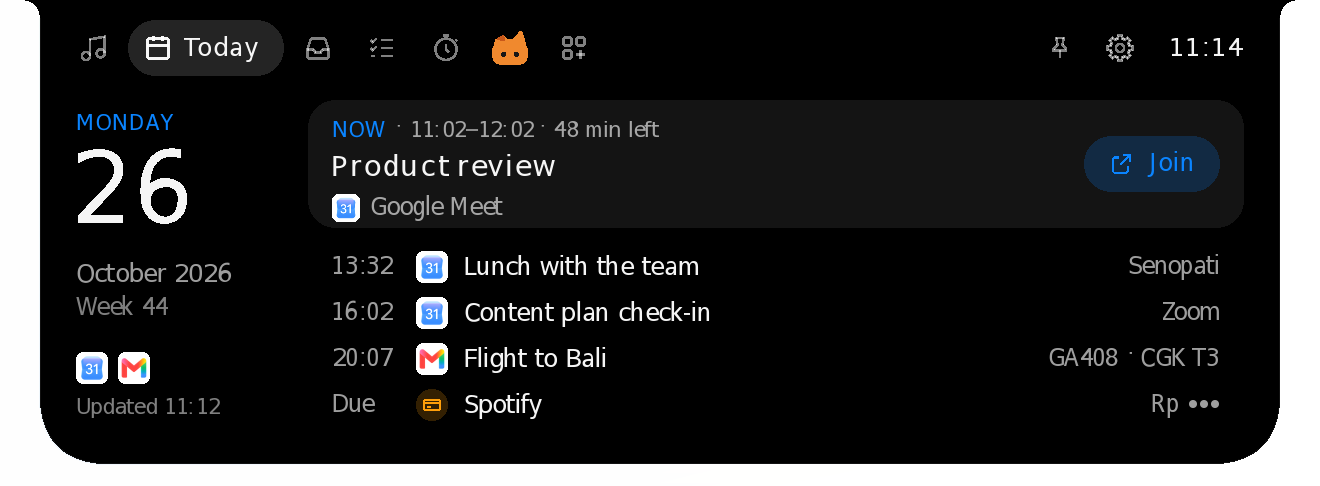
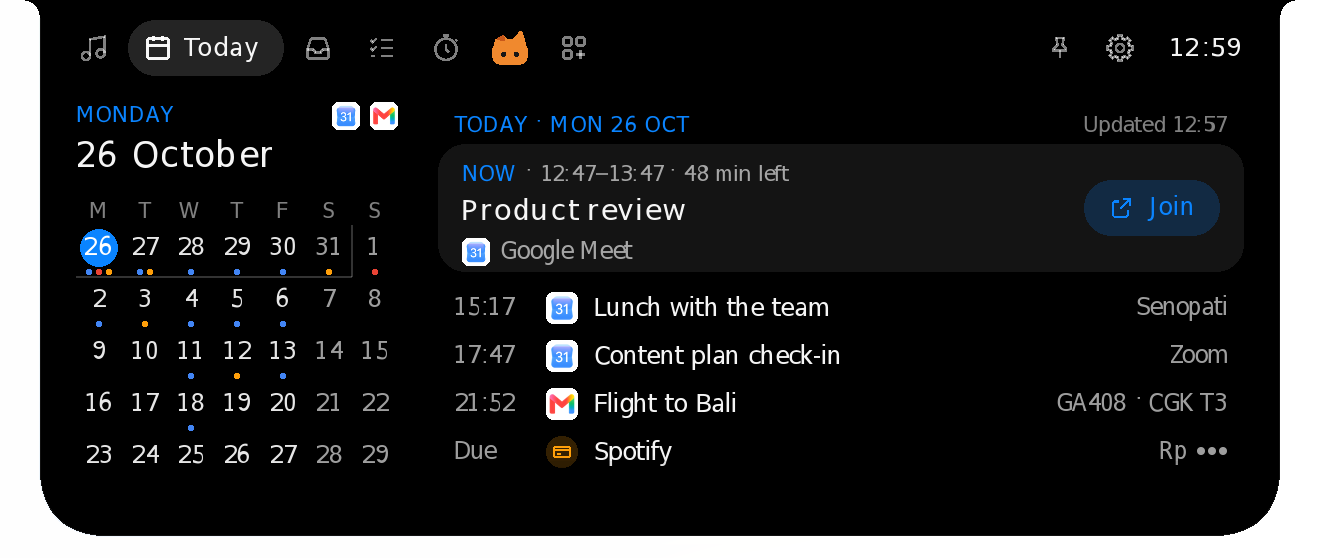
Release 0.2.10 (#130)
Version 0.2.10 in the seven version files, docs/release-notes/v0.2.10.md, and the website: New in 0.2.10 (Today shows the weeks ahead, replacing 0.2.8's Today tile; Prayer times anywhere, with #126's own lines: the hero/feature line, the headings, the Prayer section's New in sentence and the Mac line), the hero line, the fallback version (sizes unchanged), the Today tile's text, "Your weeks in memory.", the Mac captions, and the five Today pictures and the README's pages picture retaken from this release's own build.

Also the self-test's SCENES size, 89: #126 and #128 each added two scenes and each changed 85 to 87, so main (f587649) declared 87 and failed to build on Windows.

diff --git a/site/index.html b/site/index.html
@@ -633,7 +633,7 @@ dialog.more-sheet::backdrop { background: rgba(0, 0, 0, 0.42); -webkit-backdrop-
     <div class="side-sec">
       <p class="side-group">Overview</p>
       <a class="side-item" href="#top" data-k="home start download hero notch island"><i class="ic" style="--c:#1d1d1f"><svg class="ico"><use href="#i-screen"/></svg></i><span>A living notch</span></a>
-      <a class="side-item" href="#new" data-k="new release 0.2.9 latest changes mac youtube spotify browser now playing pill notch oyen oyenza tab system health add-ons clipboard history gone today your day google calendar gmail meeting join flights bills clipboard add-on touch screen tablet taps tap through notch eyes hide and seek macbook camera update available new version install now next start updater mac installer dmg window steps health oyenza sign in mac headphones full screen power island stays maximized windows sing along romaji lyrics mac prayer script reader teleprompter games power"><i class="ic" style="--c:#bf4800"><svg class="ico"><use href="#i-spark"/></svg></i><span>New in 0.2.9</span></a>
+      <a class="side-item" href="#new" data-k="new release 0.2.10 latest changes today five weeks week ahead schedule month grid dots allow turn on prayer times anywhere world city mac youtube spotify browser now playing pill notch oyen oyenza tab system health add-ons clipboard history gone today your day google calendar gmail meeting join flights bills clipboard add-on touch screen tablet taps tap through notch eyes hide and seek macbook camera update available new version install now next start updater mac installer dmg window steps health oyenza sign in mac headphones full screen power island stays maximized windows sing along romaji lyrics mac prayer script reader teleprompter games power"><i class="ic" style="--c:#bf4800"><svg class="ico"><use href="#i-spark"/></svg></i><span>New in 0.2.10</span></a>
       <a class="side-item" href="#highlights" data-k="best gallery overview"><i class="ic" style="--c:#ff9f0a"><svg class="ico"><use href="#i-spark"/></svg></i><span>Highlights</span></a>
       <a class="side-item" href="#features" data-k="rest idle music timer volume charging headphones bluetooth money clock eyes prayer countdown"><i class="ic" style="--c:#636366"><svg class="ico"><use href="#i-island"/></svg></i><span>While it rests</span></a>
     </div>
@@ -645,7 +645,7 @@ dialog.more-sheet::backdrop { background: rgba(0, 0, 0, 0.42); -webkit-backdrop-
       <a class="side-item" href="#health" data-k="steps health apple health connect add-on"><i class="ic" style="--c:#34c759"><svg class="ico"><use href="#i-steps"/></svg></i><span>Health</span></a>
       <a class="side-item" href="#shelf" data-k="files shelf drag drop"><i class="ic" style="--c:#007aff"><svg class="ico"><use href="#i-tray"/></svg></i><span>Shelf</span></a>
       <a class="side-item" href="#tasks" data-k="todo to-do tasks list"><i class="ic" style="--c:#ff9500"><svg class="ico"><use href="#i-list"/></svg></i><span>Tasks</span></a>
-      <a class="side-item" href="#today" data-k="today date calendar google calendar gmail meeting join flights bills your day sign in"><i class="ic" style="--c:#ff3b30"><svg class="ico"><use href="#i-cal"/></svg></i><span>Today</span></a>
+      <a class="side-item" href="#today" data-k="today date calendar google calendar gmail meeting join flights bills your day five weeks week ahead schedule month grid sign in allow turn on"><i class="ic" style="--c:#ff3b30"><svg class="ico"><use href="#i-cal"/></svg></i><span>Today</span></a>
       <a class="side-item" href="#system" data-k="system cpu gpu memory ram disk network battery processes stats power psu watts add-on"><i class="ic" style="--c:#636366"><svg class="ico"><use href="#i-gauge"/></svg></i><span>System</span></a>
       <a class="side-item" href="#settings" data-k="settings gear account preferences"><i class="ic" style="--c:#8e8e93"><svg class="ico"><use href="#i-gear"/></svg></i><span>Settings</span></a>
     </div>
@@ -687,7 +687,7 @@ dialog.more-sheet::backdrop { background: rgba(0, 0, 0, 0.42); -webkit-backdrop-
     </div>
     <a class="side-me" data-release="notes" href="https://github.com/lucacadalora/oyenza-studio/releases/latest">
       <img src="brand/oyen-poni-logo.svg" alt="" width="30" height="30">
-      <span><b>Version <span data-release-copy="version">0.2.9</span></b><small>What's new on GitHub</small></span>
+      <span><b>Version <span data-release-copy="version">0.2.10</span></b><small>What's new on GitHub</small></span>
     </a>
   </div>
 </aside>
@@ -728,9 +728,9 @@ dialog.more-sheet::backdrop { background: rgba(0, 0, 0, 0.42); -webkit-backdrop-
           <div class="hero-copy">
             <h1 class="t-hero-eyebrow">Oyenza Studio</h1>
             <p class="t-hero">A living notch.</p>
-            <a class="t-avail" href="#new">New in 0.2.9: YouTube and Spotify from your browser on the Mac, and Oyen is the Oyenza tab.</a>
+            <a class="t-avail" href="#new">New in 0.2.10: Today shows the next five weeks, and Prayer times work anywhere in the world.</a>
             <div class="buybox">
-              <div><b>Free for Windows and Mac</b><span class="fine">Open source · Windows <span data-release="size">2.6&nbsp;MB</span> · Mac <span data-release="mac-size">4.3&nbsp;MB</span> · <a class="notes" data-release="notes" href="https://github.com/lucacadalora/oyenza-studio/releases/latest">What's new in <span data-release="version">0.2.9</span></a></span></div>
+              <div><b>Free for Windows and Mac</b><span class="fine">Open source · Windows <span data-release="size">2.6&nbsp;MB</span> · Mac <span data-release="mac-size">4.3&nbsp;MB</span> · <a class="notes" data-release="notes" href="https://github.com/lucacadalora/oyenza-studio/releases/latest">What's new in <span data-release="version">0.2.10</span></a></span></div>
               <a class="btn dl-primary" href="https://github.com/lucacadalora/oyenza-studio/releases/latest/download/Oyenza-Studio-Setup.exe">Download</a>
             </div>
             <a class="link hero-other dl-other" data-release="mac-link" href="https://github.com/lucacadalora/oyenza-studio/releases/latest/download/Oyenza-Studio-Mac.dmg">Download for Mac</a>
@@ -749,13 +749,14 @@ dialog.more-sheet::backdrop { background: rgba(0, 0, 0, 0.42); -webkit-backdrop-
   </section>
 
   <section class="sec band" id="new" aria-labelledby="new-title">
-    <div class="content head rv"><h2 class="t-l" id="new-title">New in 0.2.9.</h2></div>
+    <div class="content head rv"><h2 class="t-l" id="new-title">New in 0.2.10.</h2></div>
     <div class="content news">
+      <a class="news-tile rv" href="#today"><p class="t-card">Today shows the weeks ahead</p><p class="t-tile">Five weeks at a glance beside your schedule: the meeting on now with Join, then every day that has something. Click a date to jump there.</p></a>
+      <a class="news-tile rv" href="#prayer"><p class="t-card">Prayer times anywhere</p><p class="t-tile">Type any city in the world, or let your location find it.</p></a>
       <a class="news-tile rv" href="#mac"><p class="t-card">YouTube and Spotify on the Mac</p><p class="t-tile">Music from your browser (YouTube, YouTube Music, Spotify on the web) and every other player on your Mac shows on the island, with lyrics.</p></a>
       <a class="news-tile rv" href="#mac"><p class="t-card">Pill on a MacBook</p><p class="t-tile">At rest, Pill goes back into the notch. Music, the timer and pop-ups float as the pill below it.</p></a>
       <a class="news-tile rv" href="#oyenza"><p class="t-card">Oyen is the Oyenza tab</p><p class="t-tile">He waves as the island opens, follows your pointer over the tabs and hops when you click him. Today now sits beside Music.</p></a>
       <a class="news-tile rv" href="#addons"><p class="t-card">System and Health are add-ons</p><p class="t-tile">Both stay off until you switch them on, so the island does less at rest. Clipboard history is gone.</p></a>
-      <a class="news-tile rv" href="#today"><p class="t-card">Your day on Today</p><p class="t-tile">Sign in with Oyenza and switch on Google Calendar or Gmail: the meeting on now with Join, then the rest of your day.</p></a>
       <a class="news-tile rv" href="#on-top"><p class="t-card">Taps go through</p><p class="t-tile">On a touch screen, taps beside and below the island reach the app under it, as mouse clicks always did.</p></a>
       <a class="news-tile rv" href="#mac"><p class="t-card">Hide and seek</p><p class="t-tile">On a MacBook with a notch, the eyes peek out beside the camera, follow your pointer and duck behind it to cross.</p></a>
       <a class="news-tile rv" href="#on-top"><p class="t-card">The island stays</p><p class="t-tile">Over a maximized window it stays on screen again, in every theme. Want the top edge clear? Idle look › Hidden until hover.</p></a>
@@ -818,7 +819,7 @@ dialog.more-sheet::backdrop { background: rgba(0, 0, 0, 0.42); -webkit-backdrop-
         <div class="gsky pad"><img class="whole" src="brand/readme/themes.webp" alt="The Music page in each look: Classic, Oyen, Glass light, Glass dark, Pill, and Pill while a lyric line plays" width="880" height="548" loading="lazy"></div>
       </a>
       <a class="gcard" href="#prayer">
-        <p>Prayer times for your kab/kota, as Kemenag RI publishes them.</p>
+        <p>Prayer times for your kab/kota, or any city in the world.</p>
         <div class="gsky"><div class="sky-fill"></div>
           <img class="look-classic" src="assets/shots/classic/page-prayer.webp" alt="The Prayer page: Ashar at 14:52, counting down from 00:08:00, Kota Jakarta, today's five prayers on an arc with Ashar lit, Imsak, Terbit and the qibla, and Adzan, Tone or Silent" width="660" height="225" loading="lazy">
           <img class="look-oyen" src="assets/shots/oyen/page-prayer.webp" alt="The Prayer page in the Oyen theme" width="660" height="225" loading="lazy">
@@ -950,10 +951,10 @@ dialog.more-sheet::backdrop { background: rgba(0, 0, 0, 0.42); -webkit-backdrop-
     </div>
     <div class="content bento">
       <article class="tile rv wide" id="today">
-        <div class="tile-text"><div><h4 class="t-card">Today</h4><p class="t-tile">Your day from Google Calendar and Gmail: the meeting on now with Join, then events, flights and bills due today.</p></div><img class="tile-pose" src="brand/art/poses/oyen-today.webp" alt="" width="480" height="499" loading="lazy"></div>
+        <div class="tile-text"><div><h4 class="t-card">Today</h4><p class="t-tile">Five weeks from Google Calendar and Gmail: a dot under each day with something on, and your schedule from now, with Join for the meeting on now.</p></div><img class="tile-pose" src="brand/art/poses/oyen-today.webp" alt="" width="480" height="499" loading="lazy"></div>
         <div class="tile-shot"><div class="sky-fill"></div><div class="isl">
-          <img class="look-classic" src="assets/shots/classic/page-today-day.webp" alt="The Today page: the date beside the meeting on now with Join, then the rest of the day, a flight and a bill due today" width="660" height="243" loading="lazy">
-          <img class="look-oyen" src="assets/shots/oyen/page-today-day.webp" alt="The Today page in the Oyen theme: the meeting on now with Join, then the rest of the day" width="660" height="243" loading="lazy">
+          <img class="look-classic" src="assets/shots/classic/page-today-day.webp" alt="The Today page: the date and five weeks of days, a dot under each one with something on, beside the meeting on now with Join, then lunch, a call, a flight and a bill due" width="660" height="279" loading="lazy">
+          <img class="look-oyen" src="assets/shots/oyen/page-today-day.webp" alt="The Today page in the Oyen theme: five weeks of days beside the meeting on now with Join, then the rest of the day" width="660" height="279" loading="lazy">
         </div></div>
       </article>
       <article class="tile rv" id="shelf">
@@ -1085,7 +1086,7 @@ dialog.more-sheet::backdrop { background: rgba(0, 0, 0, 0.42); -webkit-backdrop-
   <section class="sec" id="prayer" aria-labelledby="prayer-title">
     <div class="content head rv">
       <p class="t-label">Prayer times</p>
-      <h3 class="t-l" id="prayer-title">Prayer times, for your kab/kota.</h3>
+      <h3 class="t-l" id="prayer-title">Prayer times, for your city.</h3>
       <p class="t-intro">As <b>Kemenag RI</b> publishes them, with a live countdown, today on one arc, the qibla and the adzan. New in 0.2.3: on the Mac too.</p>
       <button class="more" type="button" data-more="m-prayer">More about prayer times<i><svg class="ico"><use href="#i-plus"/></svg></i></button>
     </div>
@@ -1238,7 +1239,7 @@ dialog.more-sheet::backdrop { background: rgba(0, 0, 0, 0.42); -webkit-backdrop-
       </div>
       <div class="panel rv-zoom gap-t" data-scene="par">
         <div class="sky-layer"></div>
-        <div class="isl"><img src="assets/shots/oyen/page-today-day.webp" alt="The Today page in the Oyen theme: a cream island, brown text, today's date in Oyen's orange, the meeting on now with Join, and Oyen peeking up beside the pin" width="660" height="243" loading="lazy"></div>
+        <div class="isl"><img src="assets/shots/oyen/page-today-day.webp" alt="The Today page in the Oyen theme: a cream island, brown text, today's date in Oyen's orange among five weeks of days, the meeting on now with Join, and Oyen peeking up beside the pin" width="660" height="279" loading="lazy"></div>
         <img class="pose" src="brand/art/oyen-poni-asleep.webp" alt="Oyen asleep on the island while a song plays" width="900" height="654" loading="lazy" style="max-width:46%">
       </div>
     </div>
@@ -1316,7 +1317,7 @@ dialog.more-sheet::backdrop { background: rgba(0, 0, 0, 0.42); -webkit-backdrop-
         </div>
         <div class="duo gap-t">
           <figure class="shot-card"><img src="assets/shots/mac/classic/page-media.webp" alt="The open island hanging below a MacBook's notch: the Music page with synced lyrics" width="710" height="288" loading="lazy"><figcaption class="t-tile"><b>Music,</b> with the words.</figcaption></figure>
-          <figure class="shot-card"><img src="assets/shots/mac/classic/page-today-day.webp" alt="The Today page below the notch: the date beside the meeting on now with Join, then the rest of the day" width="710" height="304" loading="lazy"><figcaption class="t-tile"><b>Today,</b> your day at a glance.</figcaption></figure>
+          <figure class="shot-card"><img src="assets/shots/mac/classic/page-today-day.webp" alt="The Today page below the notch: five weeks of days beside the meeting on now with Join, then the rest of the day and tomorrow" width="710" height="340" loading="lazy"><figcaption class="t-tile"><b>Today,</b> your weeks at a glance.</figcaption></figure>
         </div>
       </div>
       <div class="mac-set" data-k="oyen" hidden>
@@ -1327,7 +1328,7 @@ dialog.more-sheet::backdrop { background: rgba(0, 0, 0, 0.42); -webkit-backdrop-
         </div>
         <div class="duo gap-t">
           <figure class="shot-card"><img src="assets/shots/mac/oyen/page-media.webp" alt="The open island in the Oyen theme, black around the notch with cream type and an orange play button: the Music page with synced lyrics" width="710" height="288" loading="lazy"><figcaption class="t-tile"><b>Black</b> like the notch itself.</figcaption></figure>
-          <figure class="shot-card"><img src="assets/shots/mac/oyen/page-today-day.webp" alt="The Today page in the Oyen theme below the notch" width="710" height="304" loading="lazy"><figcaption class="t-tile"><b>Today,</b> your day at a glance.</figcaption></figure>
+          <figure class="shot-card"><img src="assets/shots/mac/oyen/page-today-day.webp" alt="The Today page in the Oyen theme below the notch: five weeks beside your schedule" width="710" height="340" loading="lazy"><figcaption class="t-tile"><b>Today,</b> your weeks at a glance.</figcaption></figure>
         </div>
       </div>
       <div class="mac-set" data-k="pill" hidden>
@@ -1338,7 +1339,7 @@ dialog.more-sheet::backdrop { background: rgba(0, 0, 0, 0.42); -webkit-backdrop-
         </div>
         <div class="duo gap-t">
           <figure class="shot-card"><img src="assets/shots/mac/pill/page-media.webp" alt="The open island in Pill on a MacBook: a black card with four rounded corners floating below the notch, on the Music page with synced lyrics" width="710" height="296" loading="lazy"><figcaption class="t-tile"><b>Open,</b> below the notch.</figcaption></figure>
-          <figure class="shot-card"><img src="assets/shots/mac/pill/page-today-day.webp" alt="The Today page in Pill on a MacBook, in the same floating card" width="710" height="312" loading="lazy"><figcaption class="t-tile"><b>Every page</b> in the same card.</figcaption></figure>
+          <figure class="shot-card"><img src="assets/shots/mac/pill/page-today-day.webp" alt="The Today page in Pill on a MacBook, in the same floating card: five weeks beside your schedule" width="710" height="348" loading="lazy"><figcaption class="t-tile"><b>Every page</b> in the same card.</figcaption></figure>
         </div>
       </div>
     </div>
@@ -1416,7 +1417,7 @@ dialog.more-sheet::backdrop { background: rgba(0, 0, 0, 0.42); -webkit-backdrop-
     <div class="content">
       <div class="facts">
         <div class="fact rv"><svg class="ico"><use href="#i-user-off"/></svg><h3 class="t-card" style="font-size:21px;line-height:1.19">No account needed.</h3><p class="t-tile">No sign-up, no tracking. Your things are files in your own folder.</p></div>
-        <div class="fact rv"><svg class="ico"><use href="#i-cal"/></svg><h3 class="t-card" style="font-size:21px;line-height:1.19">Your day in memory.</h3><p class="t-tile">Today's meetings, flights and bills are kept in memory only, never written to disk.</p></div>
+        <div class="fact rv"><svg class="ico"><use href="#i-cal"/></svg><h3 class="t-card" style="font-size:21px;line-height:1.19">Your weeks in memory.</h3><p class="t-tile">The meetings, flights and bills Today shows are kept in memory only, never written to disk.</p></div>
         <div class="fact rv"><svg class="ico"><use href="#i-chip"/></svg><h3 class="t-card" style="font-size:21px;line-height:1.19">Light and smooth.</h3><p class="t-tile">Native Rust, no web view. Nothing drawn while nothing moves.</p></div>
       </div>
       <div class="specs rv">
@@ -1512,8 +1513,8 @@ dialog.more-sheet::backdrop { background: rgba(0, 0, 0, 0.42); -webkit-backdrop-
   <form method="dialog"><button class="sheet-x" aria-label="Close"><svg class="ico"><use href="#i-x"/></svg></button></form>
   <div class="sheet-body">
     <p class="t-label">Prayer times · An add-on</p>
-    <h2 class="t-m" id="m-prayer-t">Prayer times, for your kab/kota.</h2>
-    <p>Today's times as Kemenag RI publishes them for your kab/kota, the next prayer and how long until it, and the qibla. <b>New in 0.2.1:</b> the page counts down to the next prayer in hours, minutes and seconds, and shows today's five prayers on one arc, with the sun or the moon. <b>Your computer's location finds the nearest of Kemenag's 517 places</b>, from Windows' location or the Mac's Location Services, and checks again when your laptop travels, or you type your city. The point stays on your computer: it only picks the place.</p>
+    <h2 class="t-m" id="m-prayer-t">Prayer times, for your city.</h2>
+    <p>Today's times as Kemenag RI publishes them for your kab/kota, the next prayer and how long until it, and the qibla. <b>New in 0.2.1:</b> the page counts down to the next prayer in hours, minutes and seconds, and shows today's five prayers on one arc, with the sun or the moon. <b>New in 0.2.10:</b> anywhere in the world. Type any city, or let the location find it: 33,000 cities, each with the method its country follows, on its own clock, summer time included. <b>Your computer's location finds the nearest of Kemenag's 517 places</b>, from Windows' location or the Mac's Location Services, and checks again when your laptop travels, or you type your city. The point stays on your computer: it only picks the place.</p>
     <p>In the ten minutes before each prayer the island counts down, and when it's time it says so, with a short tone, the adzan recorded at Masjidil Haram, or nothing. Checked against Kemenag's 2026 schedule: 98.2% of 227,367 times to the minute, none more than a minute off. Makkah, Madinah and Jeddah use Umm al-Qura.</p>
     <p><b>New in 0.2.3: on the Mac.</b> Prayer times is in the Mac's Add-ons tab too, with the adzan. Around a MacBook's notch the countdown sits beside the camera: the moon on the left, the minutes on the right.</p>
     <p>Prayer times is an add-on: open the + at the end of the tabs and switch it on. It downloads then, 1.9 MB, checked against the fingerprint built into the app, and switching it off deletes its files.</p>
@@ -1608,7 +1609,7 @@ dialog.more-sheet::backdrop { background: rgba(0, 0, 0, 0.42); -webkit-backdrop-
       <li>Pill: on a MacBook with a notch, the resting island goes back into the notch; music, the timer, the prayer countdown, pop-ups, notices and the open island float as the pill just below it. Without a notch it floats below the top of the screen, as on Windows.</li>
     </ul>
     <p><b>New in 0.2.1:</b> Japanese readings and Script reader are add-ons in the Mac's Add-ons tab, so the download is about a third of what it was.</p>
-    <p><b>New in 0.2.3:</b> Prayer times, in the Mac's Add-ons tab: Location Services finds your kab/kota, or you type it, the adzan plays when it's time, and around the notch the countdown sits beside the camera.</p>
+    <p><b>New in 0.2.3:</b> Prayer times, in the Mac's Add-ons tab: Location Services finds your city, or you type it, the adzan plays when it's time, and around the notch the countdown sits beside the camera.</p>
     <p>macOS 14 or later, on Apple silicon or Intel. One app for both, <span data-release-copy="mac-size">4.3&nbsp;MB</span>. It isn't signed with an Apple Developer ID yet, so the first time, macOS holds it back until you allow it in Privacy &amp; Security.</p>
   </div>
 </dialog>

diff --git a/crates/poni/src/selftest.rs b/crates/poni/src/selftest.rs
@@ -86,11 +86,11 @@ const SETTLE_TIMEOUT: f64 = 3.0;
 const SOFT_GPU_SETTLE_TIMEOUT: f64 = 8.0;
 /// Seconds to wait for a simulated tab click to switch the page.
 const CLICK_TIMEOUT: f64 = 1.5;
-/// Stop visiting scenes after this many seconds. The 87 scenes take about
-/// 43 s under Wine at 100 % (a busy machine is the slow end); on CI the Oyen
+/// Stop visiting scenes after this many seconds. The 89 scenes take about
+/// 45 s under Wine at 100 % (a busy machine is the slow end); on CI the Oyen
 /// theme with Japanese lyrics is the slowest run, about 63 s with 85 (it
 /// reached the old 50 s at scene 80 once the Today scenes came in, and 65 s
-/// was tight for two more). The CI and Store test steps wait 120 s for the
+/// was tight for four more). The CI and Store test steps wait 120 s for the
 /// whole run (this plus the writers' 3.5 s, and 40 s more for the animation
 /// runs, stays under it), the Wine runner 180 s.
 const SCENE_DEADLINE: f64 = 70.0;
@@ -980,7 +980,7 @@ const SAMPLE_SCRIPT: &str = "Hi everyone, this one takes two minutes. Today I'll
 Drop any file on the island and it waits on the Shelf. Press the phone button, scan the code, and the file is on your phone. \
 No cable, no account, nothing to install on the phone.\n\nThat's it. Thanks for watching.";
 
-const SCENES: [Scene; 87] = [
+const SCENES: [Scene; 89] = [
     Scene::IdleClock,
     Scene::IdleEyes,
     Scene::Media,

diff --git a/docs/release-notes/v0.2.10.md b/docs/release-notes/v0.2.10.md
@@ -1,0 +1,17 @@
+**Today shows the weeks ahead.** Signed in to Oyenza, with Google Calendar or Gmail switched on, Today has the next five weeks on its left, with a dot under each date for what's on it: a calendar event, a flight from Gmail, a bill due. On the right is your schedule from now: the meeting on now with **Join**, the rest of today, then each day that has something, to the end of the five weeks. Click a date to start the list there; click an event to open it in Google Calendar. The list scrolls with your trackpad or mouse wheel.
+
+**Today says what's missing.** If Google Calendar is switched off for Studio, or not connected, Today says so and offers **Turn on** or **Connect**, which open Studio's switches in oyenza.app. Connect Google Calendar from there and it switches on for Studio by itself.
+
+**One tap for the weeks.** If you switched Google Calendar or Gmail on for Studio before this version, the words you agreed to named only today, so Today shows today until you tap **Allow**, on Today itself or in oyenza.app.
+
+**Prayer times anywhere.** Prayer times works outside Indonesia: type any of 33,000 cities, or let your location find it. Cities are looked up online as you type, so the add-on stays 1.9 MB; only the city you pick is kept. Each city gets the method its country follows, named beside it, on its own clock with summer time.
+
+Everything new in 0.2.9 is here too: YouTube and Spotify in your browser on a Mac, Oyen as the Oyenza tab, System and Health as add-ons. See the [0.2.9 notes](https://github.com/lucacadalora/oyenza-studio/releases/tag/v0.2.9).
+
+**Install:** download `Oyenza-Studio-Setup.exe` and run it. It installs just for you (no admin rights) and can start with Windows. Or unzip the portable zip and run `Poni\poni.exe`. Links to `Oyen-Poni-Setup.exe` keep working: every release carries that file too.
+
+**On a Mac:** open `Oyenza-Studio-Mac.dmg` and drag Oyenza Studio into Applications. It isn't signed with an Apple Developer ID yet, so the first time macOS warns you, click **Done**, then open **System Settings → Privacy & Security** and click **Open Anyway**.
+
+**Upgrading:** on 0.2.6 to 0.2.9, the island says **Update available** within a few hours; on Windows, **Install now** in the Update sheet installs it for you. Or run the new installer. Either way it upgrades in place and keeps your settings, data, add-ons and Oyenza sign-in.
+
+The build isn't code-signed yet, so Windows SmartScreen may say "Windows protected your PC". Click **More info → Run anyway**.
